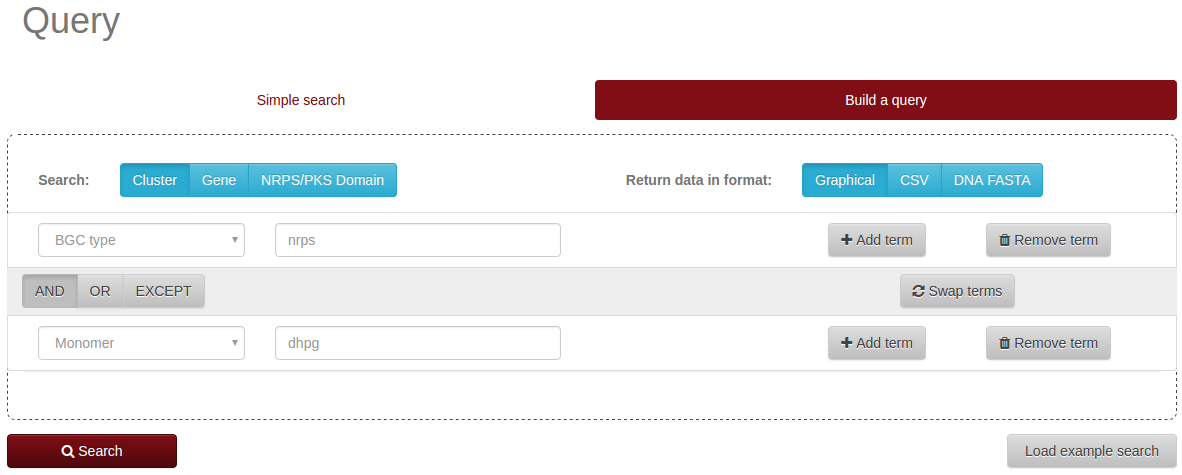
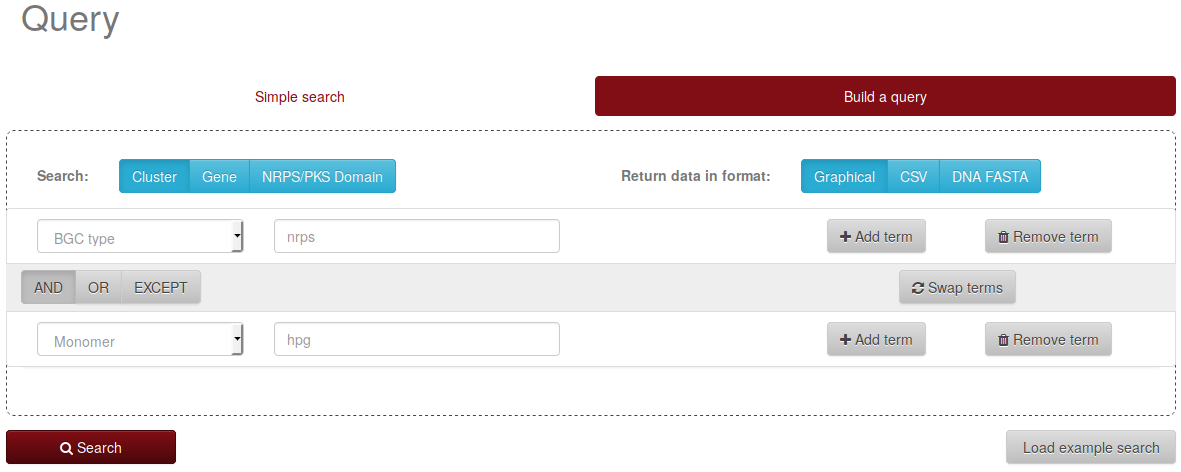
help: Update example to use hpg because SANDPUMA broke dhpg

diff --git a/app/help/help.html b/app/help/help.html
@@ -11,18 +11,18 @@
   </div>
 
   <uib-accordion>
-    <div uib-accordion-group heading="Finding all nonribosomal peptide clusters that incorporate dihydroxyphenylglycine">
+    <div uib-accordion-group heading="Finding all nonribosomal peptide clusters that incorporate hydroxyphenylglycine">
 
       On the "Build a query" tab, a user can click the "Add term" button to create a second search term. For the first
       term, he or she might, e.g., select "BGC type" as category and enter "nrps" as the search string. For the second term,
-      he or she could, e.g., select "monomer" as category and enter "dhpg" as search string, and hit "search".
+      he or she could, e.g., select "monomer" as category and enter "hpg" as search string, and hit "search".
       <hr />
       <img src="images/tutorial_monomer.png" class="img-responsive center-block img-thumbnail">
-      <strong>Query to find NRPS clusters including the monomer dihydroxyphenylglycine (dhpg).</strong>
+      <strong>Query to find NRPS clusters including the monomer hydroxyphenylglycine (hpg).</strong>
       <hr /> Currently three BGCs in the database match these search criteria and are returned on the results page:
       <hr />
       <img src="images/tutorial_monomer_results.png" class="img-responsive center-block img-thumbnail">
-      <strong>Result for searching NRPS clusters including the monomer dihydroxyphenylglycine (dhpg).</strong>
+      <strong>Result for searching NRPS clusters including the monomer hydroxyphenylglycine (hpg).</strong>
 
     </div>
 
@@ -38,7 +38,7 @@
       <hr />
       <img src="images/tutorial_genus.png" class="img-responsive center-block img-thumbnail">
       <strong>Query to find RiPPs in <i>Streptomyces</i> that are not lanthipeptides.</strong>
-      <hr /> This query currently yields 265 clusters. To save the results for further analysis, the result table can be downloaded
+      <hr /> This query currently yields 2089 clusters. To save the results for further analysis, the result table can be downloaded
       as CSV file that can then be opened in a spreadsheet application.
     </div>
 
